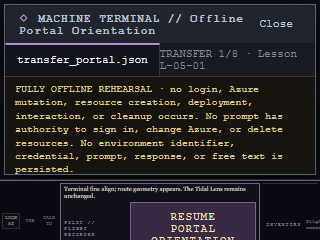
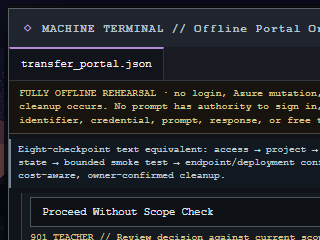
Round 20 step 6 Pixel Patrol Agent checkpoint

diff --git a/Pixel Patrol/WORK_LOG.md b/Pixel Patrol/WORK_LOG.md
@@ -1,5 +1,13 @@
 # Pixel Patrol Work Log
 
+## 2026-07-12 — Offline Single-Agent Solutions final visual gate
+
+- **Completed:** audited complete Single-Agent primary, transfer, closed-note, and mastered flow. Persistent no-agent/tool/action warning and six-boundary equivalent already occupy correct fixed rows above one contained form. Fit/instructions/least-privilege/test/verified-authority/client-flow hierarchy, timed-out-tool fabricated-success rejection, Pilot/System/Teacher ownership, scrolling, focus, Continue handoff, and square-pixel chrome are coherent at canonical and narrow sizes. No CSS correction was warranted.
+- **Files changed:** `Pixel Patrol/PIXEL_METRICS.md`, `Pixel Patrol/UI_AND_TYPE_SPEC.md`, `Pixel Patrol/QA_CHECKLIST.md`, and this log. No gameplay code or CSS changed.
+- **Validation:** all 115 unit tests, production build, and full title-to-credits E2E pass with zero runtime errors. E2E confirms all-phase warning/boundary association, both 12/12 forms, four-part explanation, denied/failure honesty, authority safeguards, ownership separation, privacy, direct/reload Continue focus, distinct captures, and credits.
+- **Next recommended item:** Location Scout should render six square design stations ending in a client-flow return, with denied/timed-out tool branches terminating in honest error apertures and no physical route to a success lamp.
+- **Unresolved risks:** the complete warning dominates the first 320 x 240 work viewport by design. Separately, the 561.16 kB bundle advisory remains non-blocking and produced no observed capture, interaction, or full-journey performance defect.
+
 ## 2026-07-12 — Offline Client Boundaries final visual gate
 
 - **Completed:** audited complete Client Boundaries mock, primary, transfer, closed-note, and mastered flow. Persistent offline/mock/no-authority warning and six-boundary/current-mock-PASS equivalent already occupy correct fixed rows above one contained phase region. Endpoint/credential/deployment/client/request-response/simulation hierarchy, fabricated-success/action remediation, Pilot/System/Teacher ownership, scrolling, focus, Continue handoff, and square-pixel chrome are coherent at canonical and narrow sizes. No CSS correction was warranted.

diff --git a/Pixel Patrol/UI_AND_TYPE_SPEC.md b/Pixel Patrol/UI_AND_TYPE_SPEC.md
@@ -195,3 +195,10 @@ Every failure response contains: what the Machine observed, one bounded cue, and
 - Endpoint locates the project, credential supplies identity, deployment name selects the model, project client yields a compatible inference client, request input is sent and response output is read, and mock PASS proves local flow only.
 - Fabricated success and destructive-action claims are remediation states, never positive status. Simulation or prompt text cannot establish live access or authorize deployment, creation, purchase, email, deletion, or mutation.
 - Keep persistent rows outside one form traversal. Retain square seams, two-pixel focus/ownership rails, native controls, and Continue focus after direct or restored mastery.
+
+## Offline Single-Agent Solutions hierarchy
+
+- Preserve reading order: Machine/file/status -> no-agent/tool/action warning -> six-boundary equivalent -> Pilot design decision/prose -> neutral System validator -> Teacher fit/privilege/failure remediation.
+- Choose a plain model flow when orchestration is unnecessary; otherwise keep stable instructions authoritative and attach only least-privilege tools. Tool capability is not action permission.
+- Test expected, edge, injection, denied, timed-out, and failed paths. Denied or failed work stays denied or failed; fabricated success is always a remediation state. Client flow uses agent identifier, submitted input, then a real result or honest error.
+- Keep persistent rows outside one form traversal. Retain square seams, two-pixel focus/ownership rails, native controls, and Continue focus after direct or restored mastery.

diff --git a/Pixel Patrol/PIXEL_METRICS.md b/Pixel Patrol/PIXEL_METRICS.md
@@ -124,3 +124,9 @@ At 1x capture:
 - Client Boundaries uses three fixed workspace rows: offline/mock/no-authority warning, six-boundary equivalent with current mock-PASS meaning, then one contained phase/form region. Rows may wrap but cannot overlap or reorder.
 - Canonical order is endpoint -> credential -> deployment -> project/inference client -> request/response -> simulation/no-action proof. At 320 x 240 the complete warning leads and the remaining boundaries stay reachable by vertical traversal.
 - Primary/transfer retain decision then reason. Closed note uses four explanation fields in one canonical row and one narrow column; outer Machine/file/status chrome stays fixed.
+
+## Offline Single-Agent Solutions viewport contract
+
+- Single-Agent uses three fixed workspace rows: persistent no-agent/tool/action warning, persistent six-boundary equivalent, then one contained form. Rows wrap but cannot overlap or reorder at canonical or narrow size.
+- Canonical order is fit -> stable instructions -> least-privilege tools -> expected/edge/injection/denied/failure tests -> verified action authority -> agent-ID submit/read honest result or error. Narrow retains the same order by vertical traversal.
+- Primary/transfer retain decision then reason. Closed note uses four grouped explanation fields in one canonical row and one narrow column; outer Machine/file/status chrome stays fixed.

diff --git a/Pixel Patrol/QA_CHECKLIST.md b/Pixel Patrol/QA_CHECKLIST.md
@@ -146,6 +146,12 @@ Run at native 640 x 480, 2x 1280 x 960, the 320 x 240 alternate layout, and a no
 - [ ] Fabricated success and destructive-action claims receive Teacher remediation separate from neutral System scores.
 - [ ] Client Boundary captures remain byte-distinct across canonical, narrow, and host context; one traversal preserves narrow content.
 - [ ] Direct/restored mastery moves focus to Continue with square-pixel chrome unchanged.
+- [ ] Single-Agent no-agent/tool/action warning and six-boundary equivalent remain persistent, ordered, and non-overlapping.
+- [ ] Fit, instructions, least privilege, tests, verified action authority, and client flow remain six distinct boundary reads.
+- [ ] Timed-out/denied/failed tools cannot display fabricated success; Teacher honesty remediation remains separate from System score.
+- [ ] Client flow reads agent identifier -> submit input -> real result or honest error.
+- [ ] Single-Agent captures remain byte-distinct across canonical, narrow, and host context; one traversal preserves narrow content.
+- [ ] Direct/restored mastery moves focus to Continue with Pilot/System/Teacher separation and square-pixel chrome unchanged.
 
 - [ ] Every scene can recover after every ordinary verb on every hotspot.
 - [ ] No required item can be lost or consumed early.
